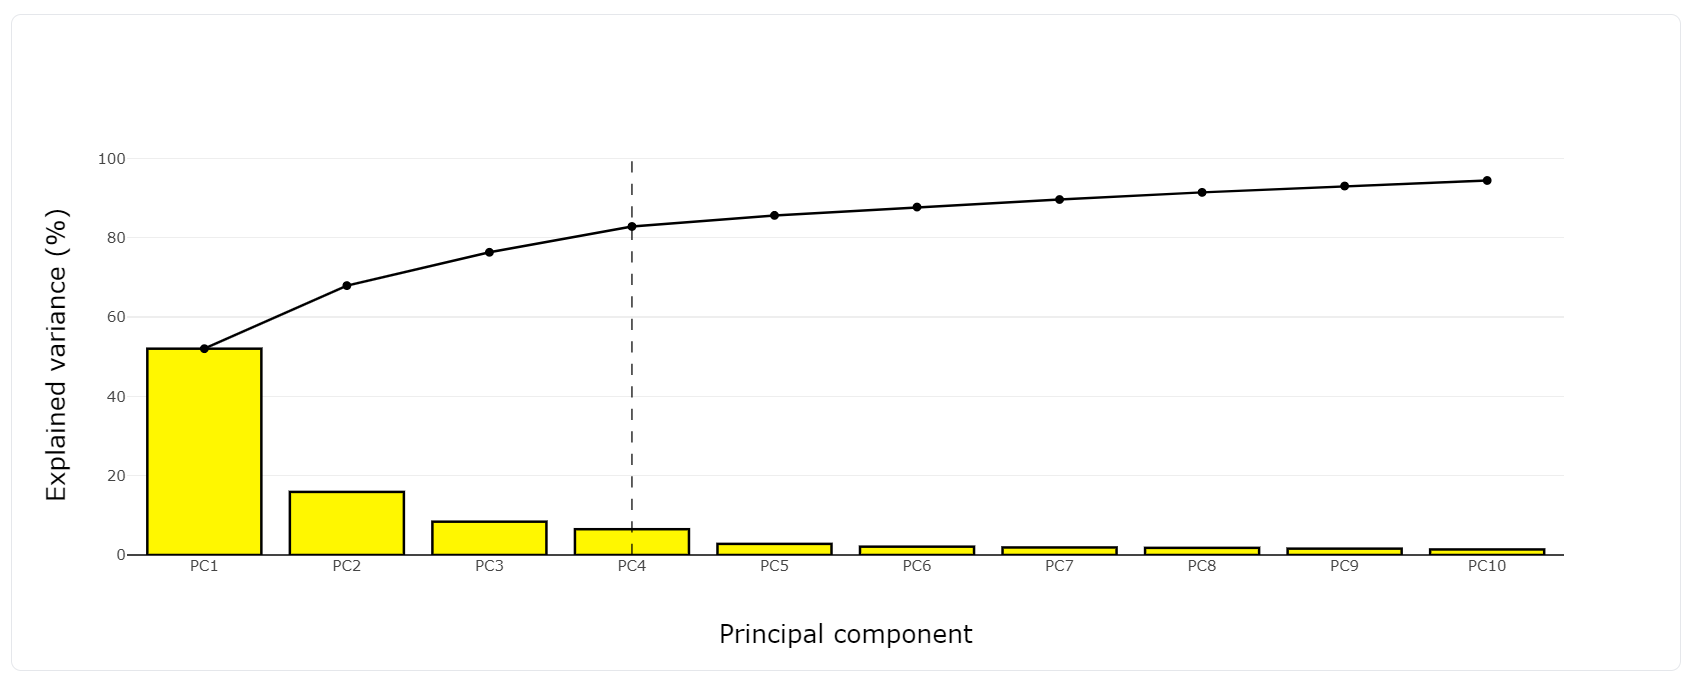
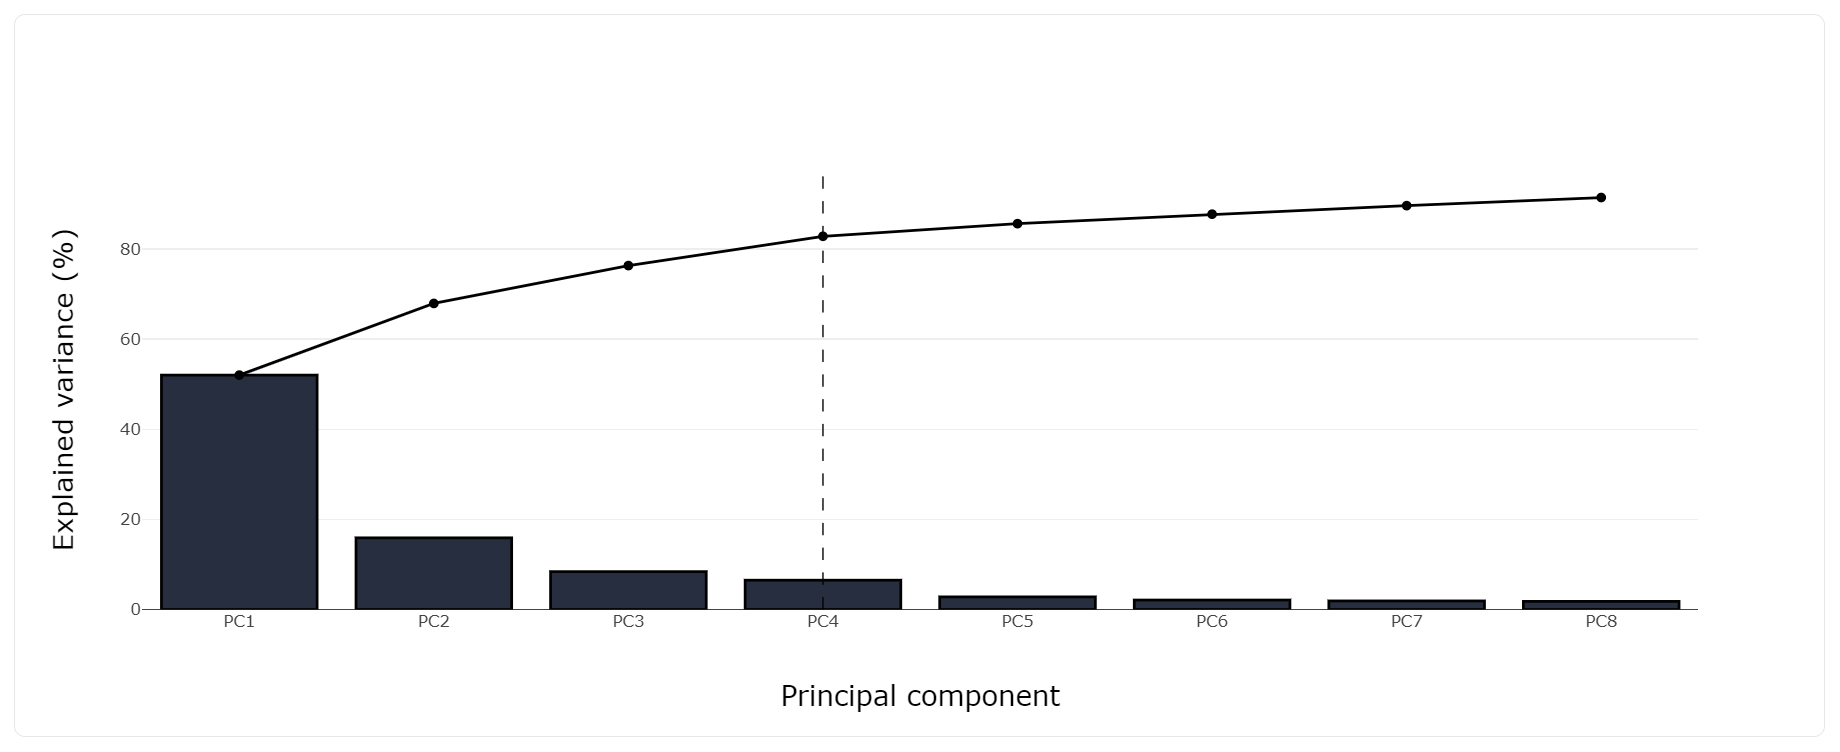
finish the tour section

diff --git a/frontend/app/page.js b/frontend/app/page.js
@@ -28,7 +28,16 @@ import {
 } from 'antd';
 
 // The icons used in the UI
-import { Plus, Minus, Rocket, Trash, BarChartBig, ScatterChart, Table as TableIcon } from 'lucide-react';
+import {
+  Plus,
+  Minus,
+  Rocket,
+  Trash,
+  BarChartBig,
+  ScatterChart,
+  Table as TableIcon,
+  Upload
+} from 'lucide-react';
 import { SearchOutlined } from '@ant-design/icons';
 
 // The Highlighter is used to highlight the searched text in the table
@@ -92,7 +101,7 @@ export default function Home() {
   const spaceBetweenSections = "my-[30px]";
   const spaceBetweenColorSectionAndPlot = "mt-5";
   const styleForSectionHeading = "mb-4 text-3xl font-bold"
-  const styleforDownloadButton = "inline-flex items-center justify-center whitespace-nowrap rounded-md text-sm font-medium ring-offset-background transition-colors focus-visible:outline-none focus-visible:ring-2 focus-visible:ring-ring focus-visible:ring-offset-2 disabled:pointer-events-none disabled:opacity-50 border border-input bg-background hover:bg-accent hover:text-accent-foreground h-10 px-4 py-2"
+  const styleForButton = "inline-flex items-center justify-center whitespace-nowrap rounded-md text-sm font-medium ring-offset-background transition-colors focus-visible:outline-none focus-visible:ring-2 focus-visible:ring-ring focus-visible:ring-offset-2 disabled:pointer-events-none disabled:opacity-50 border border-input bg-background hover:bg-accent hover:text-accent-foreground h-10 px-4 py-2 cursor-pointer"
   const sizeOfIcon = "20px"
 
   // Variables for the tour
@@ -567,15 +576,24 @@ export default function Home() {
   ####################*/
   const renderButtonUploadFile = () => {
     return (
-      <Input
-        // The "id" is used to select the file input by using the document.getElementById(inputFileId), then we can reset the file input value to null
-        id={inputFileId}
-        type='file'
-        accept={acceptFileTypes}
-        onChange={handleFileUpload}
+      <div>
+        <Input
+          // The "id" is used to select the file input by using the document.getElementById(inputFileId), then we can reset the file input value to null
+          id={inputFileId}
+          type='file'
+          accept={acceptFileTypes}
+          onChange={handleFileUpload}
+          // The "hidden" is used to hide the file input, then we will use the label to trigger the file input instead
+          className='hidden'
         // The ref={refTourStep1} is used to tell the tour that this is the target of the first step, the "Tour" is like the tutorial for the user
-        ref={refTourStep1}
-      />
+
+        />
+
+        <label htmlFor={inputFileId} className={`${styleForButton}`} ref={refTourStep1}>
+          <Upload className='mr-2' size={sizeOfIcon} /> Upload file
+        </label>
+
+      </div>
     )
   }
   /*####################
@@ -1049,7 +1067,7 @@ export default function Home() {
           <CSVLink
             filename={"dataTable.csv"}
             data={csvData}
-            className={`${styleforDownloadButton}`}
+            className={`${styleForButton}`}
           >
             Download file
           </CSVLink>
@@ -1128,7 +1146,7 @@ export default function Home() {
           <CSVLink
             filename={"loadingsTable.csv"}
             data={loadingsTableData}
-            className={`${styleforDownloadButton}`}
+            className={`${styleForButton}`}
           >
             Download file
           </CSVLink>
@@ -1210,7 +1228,7 @@ export default function Home() {
           <CSVLink
             filename={"topfivecontributors.csv"}
             data={topFiveContributorsTableData}
-            className={`${styleforDownloadButton}`}
+            className={`${styleForButton}`}
           >
             Download file
           </CSVLink>

diff --git a/backend/generateScreePlot.py b/backend/generateScreePlot.py
@@ -32,7 +32,7 @@ def generate_scree_plot():
     dataAfterStandardization = standardScalerObject.fit_transform(
         convertedData.T)
 
-    pcaObject = PCA(n_components=10)
+    pcaObject = PCA(n_components=8)
     pcaObject.fit_transform(dataAfterStandardization)
     #########################
     # End of CODE SIMILAR TO "generatePCA.py"
